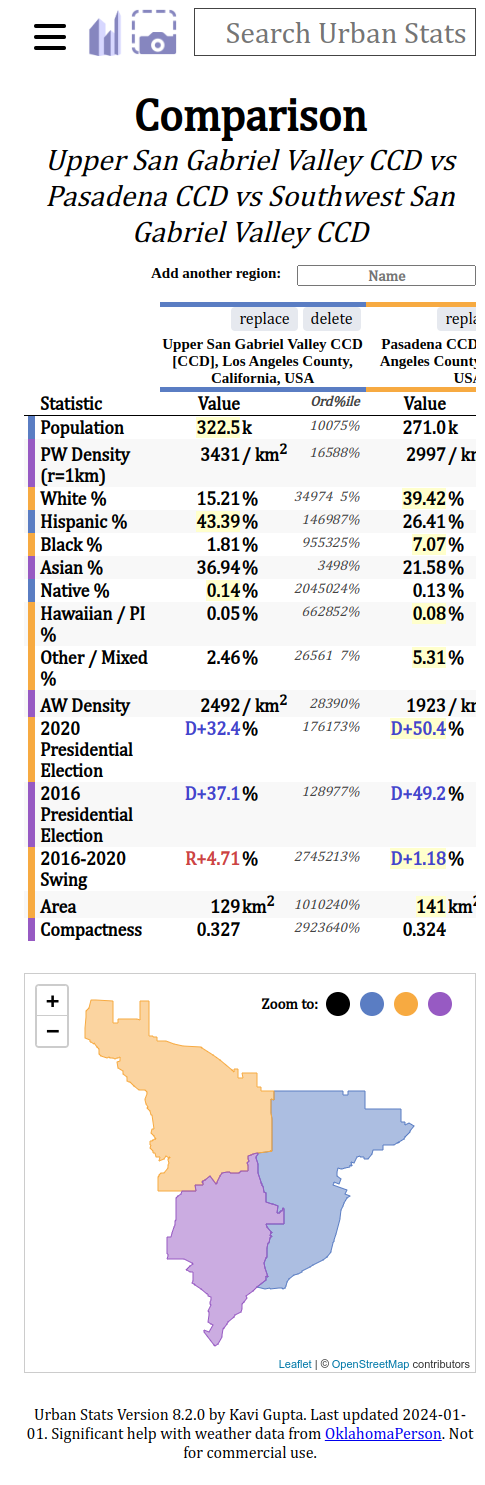
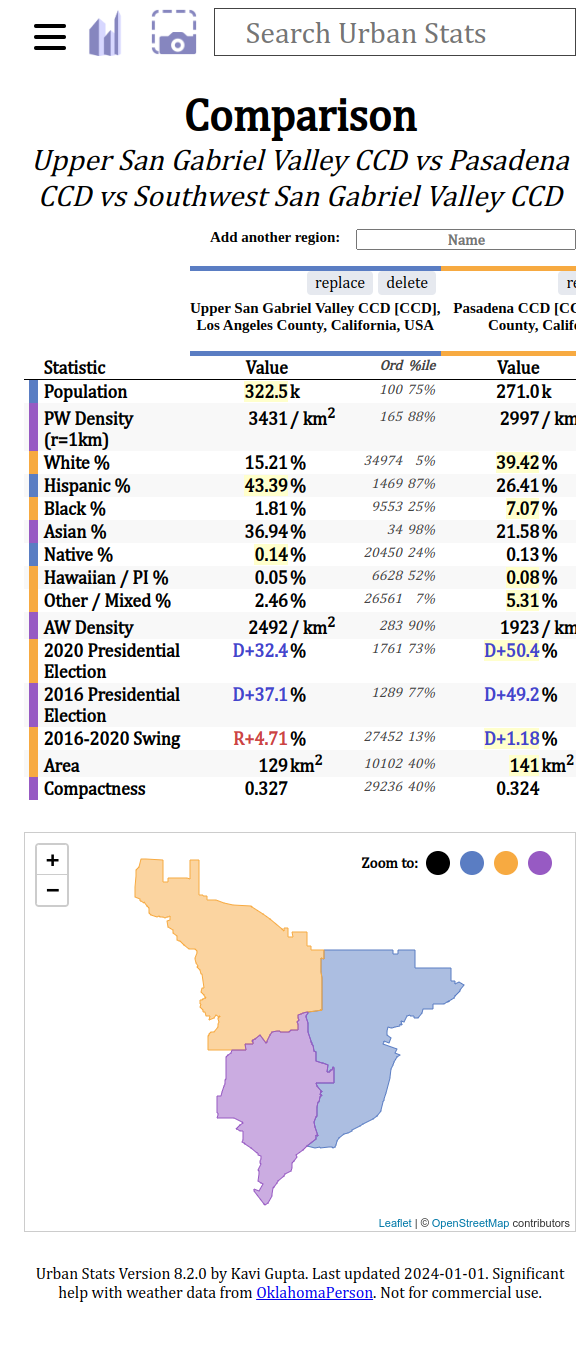
add comparison tests

Changed region(s): [[0.0309, 0.0, 0.9897, 0.9875], [0.4021, 0.0, 0.9897, 0.0617], [0.0619, 0.0, 0.1237, 0.0617]]

diff --git a/react/test/article_test.js b/react/test/article_test.js
@@ -254,7 +254,7 @@ test('comparison-3-desktop', async t => {
 })
 
 test('comparison-3-mobile', async t => {
-    await t.resizeWindow(400, 800);
+    await t.resizeWindow(600, 800);
     await t.eval(() => location.reload(true));
     await screencap(t, "comparison/basic-comparison-mobile");
 })
